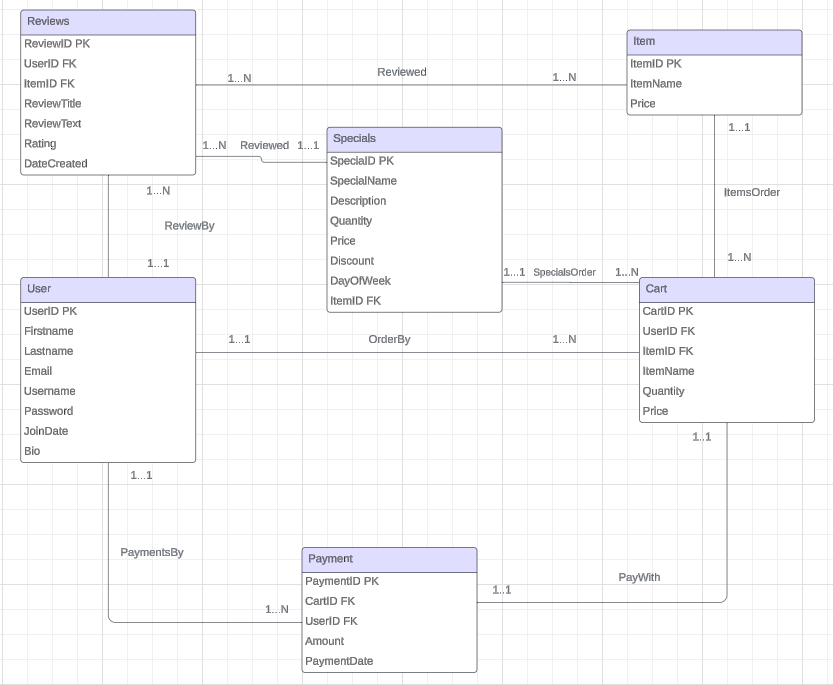
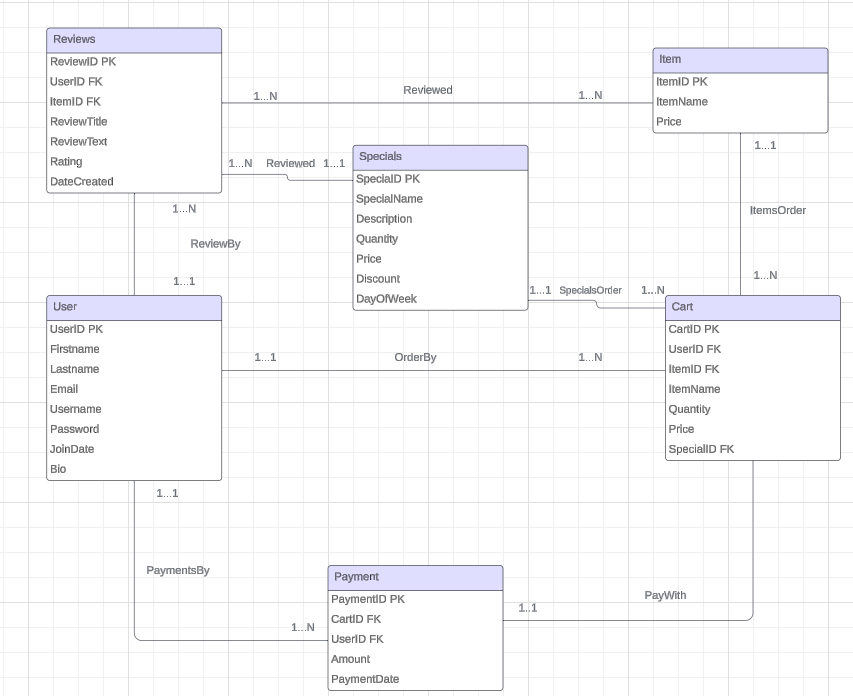
final commit

diff --git a/express-database/src/controllers/cart.controller.js b/express-database/src/controllers/cart.controller.js
@@ -18,21 +18,72 @@ exports.getCartItems = async (req, res) => {
 };
 
 exports.addToCart = async (req, res) => {
-  const { userID, itemID, itemName, price, quantity } = req.body;
-  try {
-    const existingCartItem = await Cart.findOne({ where: { userID, itemID } });
+  const { userID, itemName, price, quantity } = req.body;
 
-    if (existingCartItem) {
-      existingCartItem.quantity += quantity;
-      await existingCartItem.save();
+  try {
+    // Check if the item exists in the database
+    const item = await db.item.findOne({ where: { ItemName: itemName } });
+    if (!item) {
+      return res.status(404).json({ error: 'Item not found' });
+    }
+
+    // Check if the item is already in the user's cart
+    const cartItem = await db.cart.findOne({ where: { userID, itemID: item.ItemID } });
+
+    if (cartItem) {
+      // If the item is already in the cart, update the quantity
+      cartItem.quantity += quantity;
+      await cartItem.save();
     } else {
-      await Cart.create({ userID, itemID, itemName, price, quantity });
+      // If the item is not in the cart, add it
+      await db.cart.create({
+        userID,
+        itemID: item.ItemID,
+        itemName: itemName,
+        price: price,
+        quantity: quantity
+      });
     }
 
     res.status(200).json({ message: 'Item added to cart' });
   } catch (error) {
-    console.error('Error adding to cart:', error);
-    res.status(500).json({ error: error.message });
+    console.error('Error adding item to cart:', error);
+    res.status(500).json({ error: 'Internal server error' });
+  }
+};
+
+exports.addSpecialToCart = async (req, res) => {
+  const { userID, itemName, price, quantity } = req.body;
+
+  try {
+    // Check if the special item exists in the database
+    const special = await db.special.findOne({ where: { SpecialName: itemName } });
+    if (!special) {
+      return res.status(404).json({ error: 'Special item not found' });
+    }
+
+    // Check if the special item is already in the user's cart
+    const cartItem = await db.cart.findOne({ where: { userID, specialID: special.specialID } });
+
+    if (cartItem) {
+      // If the item is already in the cart, update the quantity
+      cartItem.quantity += quantity;
+      await cartItem.save();
+    } else {
+      // If the item is not in the cart, add it
+      await db.cart.create({
+        userID,
+        specialID: special.specialID,
+        itemName: itemName,
+        price: price,
+        quantity: quantity
+      });
+    }
+
+    res.status(200).json({ message: 'Special item added to cart' });
+  } catch (error) {
+    console.error('Error adding special item to cart:', error);
+    res.status(500).json({ error: 'Internal server error' });
   }
 };
 

diff --git a/my-app/src/pages/Specials.js b/my-app/src/pages/Specials.js
@@ -1,5 +1,6 @@
 import React, { useEffect, useState } from "react";
 import { useNavigate } from 'react-router-dom';
+import axios from 'axios';
 import Mondays from './images/Mondays.jpg';
 import Tuesdays from './images/Tuesdays.jpg';
 import Wednesdays from './images/Wednesdays.jpg';
@@ -30,12 +31,11 @@ function Specials() {
   useEffect(() => {
     const fetchProfile = async () => {
       try {
-        const response = await fetch('http://localhost:4000/api/users/validate-session', {
-          credentials: 'include'
+        const response = await axios.get('http://localhost:4000/api/users/validate-session', {
+          withCredentials: true
         });
-        const data = await response.json();
-        if (data.user) {
-          setUserID(data.user.UserID);
+        if (response.data && response.data.user) {
+          setUserID(response.data.user.UserID);
         } else {
           throw new Error("Session data incomplete or missing.");
         }
@@ -73,14 +73,14 @@ function Specials() {
       return;
     }
     try {
-      const response = await fetch('/api/cart/add', {
+      const response = await fetch('/api/cart/addSpecial', {
         method: 'POST',
         headers: {
           'Content-Type': 'application/json',
         },
         body: JSON.stringify({
           userID,
-          itemName: todaySpecial.SpecialName,
+          specialName: todaySpecial.SpecialName,
           price: todaySpecial.Price - (todaySpecial.Price * todaySpecial.Discount / 100),
           quantity: todaySpecial.quantity
         })
@@ -119,7 +119,7 @@ function Specials() {
           <label htmlFor="quantity">Quantity:</label>
           <input type="number" id="quantity" value={todaySpecial.quantity} onChange={handleQuantityChange} min="1" />
           <button onClick={addToCart} className="btn checkout-button">Add to Cart</button>
-          <br/>
+          <br />
           <button onClick={() => navigate('/checkout')} className="btn checkout-button">Go to Checkout</button>
         </div>
       </div>
@@ -132,10 +132,10 @@ function Specials() {
           <p>Shop now for the freshest foods</p>
         </div>
         <div className="col-md-6 grow-your-own-food">
-          <h2>Grow Your Own Food</h2>
-          <img src={review} alt="Grow Food" className="img-fluid" />
-          <Link to="/review" className="btn btn-primary">Review Food</Link>
-          <p>Review Your Food</p>
+          <h2>Review Your Food</h2>
+          <img src={review} alt="Review Food" className="img-fluid" />
+          <Link to="/review" className="btn btn-primary">Review Now</Link>
+          <p>Review your own organic foods</p>
         </div>
       </div>
     </div>

diff --git a/express-database/src/database/models/cart.js b/express-database/src/database/models/cart.js
@@ -1,3 +1,4 @@
+// In your cart model file
 module.exports = (sequelize, DataTypes) => {
   const Cart = sequelize.define('Cart', {
     cartID: {
@@ -11,7 +12,11 @@ module.exports = (sequelize, DataTypes) => {
     },
     itemID: {
       type: DataTypes.INTEGER,
-      allowNull: false,
+      allowNull: true, // Make this nullable if it can be either item or special
+    },
+    specialID: {
+      type: DataTypes.INTEGER,
+      allowNull: true, // Make this nullable if it can be either item or special
     },
     itemName: {
       type: DataTypes.STRING,
@@ -24,7 +29,7 @@ module.exports = (sequelize, DataTypes) => {
     },
     price: {
       type: DataTypes.FLOAT,
-      allowNull: false,
+      allowNull: false
     }
   }, {
     tableName: 'Cart',
@@ -33,4 +38,5 @@ module.exports = (sequelize, DataTypes) => {
 
   return Cart;
 };
+
 

diff --git a/express-database/src/routes/cart.routes.js b/express-database/src/routes/cart.routes.js
@@ -17,6 +17,9 @@ module.exports = (express, app) => {
   // Delete cart items
   router.delete("/deleteCart", controller.deleteCart);
 
+  // Add specials to cart
+  router.post('/addSpecial', controller.addSpecialToCart);
+
   // Add routes to server
   app.use('/api/cart', router);
 };
